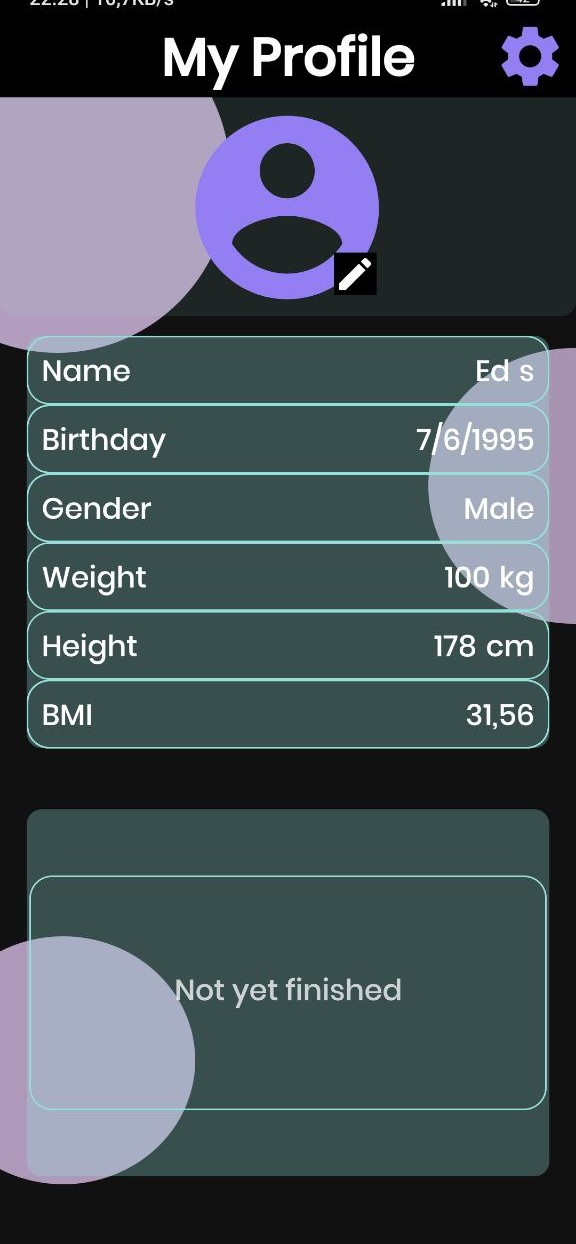
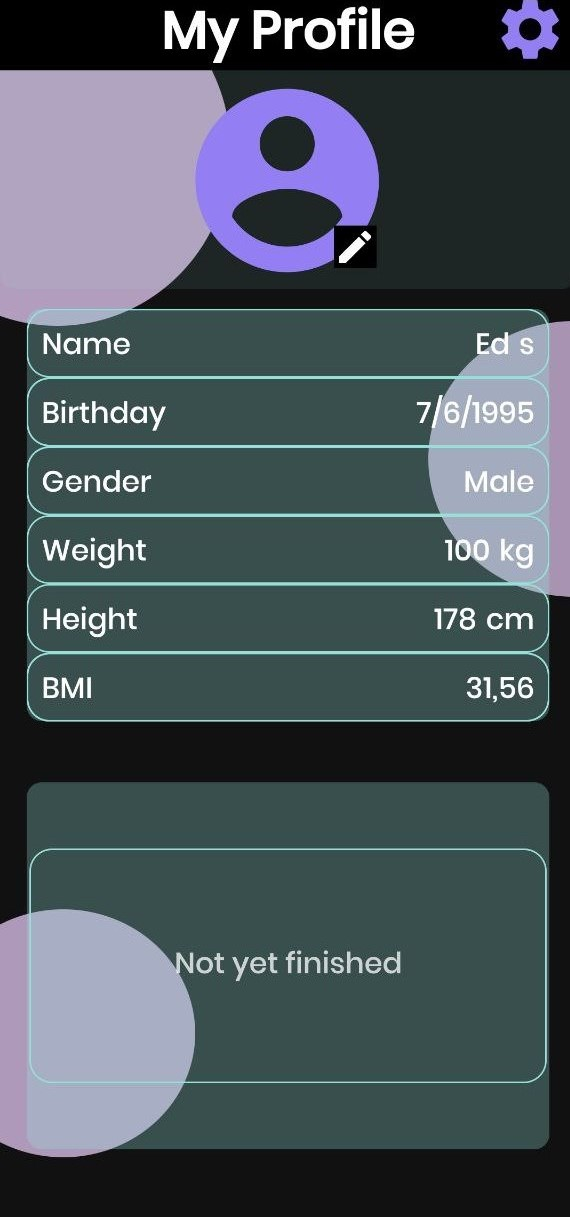
GitBook: [#19] No subject

Changed region(s): [[0.0, 0.0, 1.0, 0.6557], [0.0596, 0.6557, 0.9842, 0.9367], [0.0, 0.7182, 0.2684, 0.7806]]

diff --git a/gym-ai/gym-ai-mobile/my-workout.md b/gym-ai/gym-ai-mobile/my-workout.md
@@ -5,3 +5,34 @@ coverY: 0
 
 # ▪ My Workout
 
+#### My Workout
+
+_In the Workout tab, we will provide workout plans based on the user's initial choices. Each day will be dedicated to a specific workout, with defined duration and requirements. Each exercise will be described in detail, including an estimate of the calories that will be burned. For better understanding, we present an example below._
+
+<div>
+
+<figure><img src="../../.gitbook/assets/my workout.jpg" alt=""><figcaption></figcaption></figure>
+
+ 
+
+<figure><img src="../../.gitbook/assets/my workout 1.1.jpg" alt=""><figcaption></figcaption></figure>
+
+ 
+
+<figure><img src="../../.gitbook/assets/my workout 1.2.jpg" alt=""><figcaption></figcaption></figure>
+
+</div>
+
+<div>
+
+<figure><img src="../../.gitbook/assets/my workout 1.3.jpg" alt=""><figcaption></figcaption></figure>
+
+ 
+
+<figure><img src="../../.gitbook/assets/my wekout 1.4 (1).jpg" alt=""><figcaption></figcaption></figure>
+
+ 
+
+<figure><img src="../../.gitbook/assets/my workkout 1.5.jpg" alt=""><figcaption></figcaption></figure>
+
+</div>

diff --git a/gym-ai/gym-ai-mobile/my-habit-tracker.md b/gym-ai/gym-ai-mobile/my-habit-tracker.md
@@ -15,4 +15,4 @@ _In this part of the app, you will have a calendar that will show you the day of
 * [x] _Meal Plan;_&#x20;
 * [x] _My Profile._
 
-<figure><img src="../../.gitbook/assets/my habit.jpg" alt=""><figcaption></figcaption></figure>
+<figure><img src="../../.gitbook/assets/my habit (1).jpg" alt=""><figcaption></figcaption></figure>

diff --git a/gym-ai/gym-ai-mobile/my-profile.md b/gym-ai/gym-ai-mobile/my-profile.md
@@ -15,7 +15,7 @@ _We highlight the profile, located at the top of the Habit Tracker, which will p
 
  
 
-<figure><img src="../../.gitbook/assets/Profile.jpg" alt=""><figcaption></figcaption></figure>
+<figure><img src="../../.gitbook/assets/Profile (1).jpg" alt=""><figcaption></figcaption></figure>
 
 </div>
 
